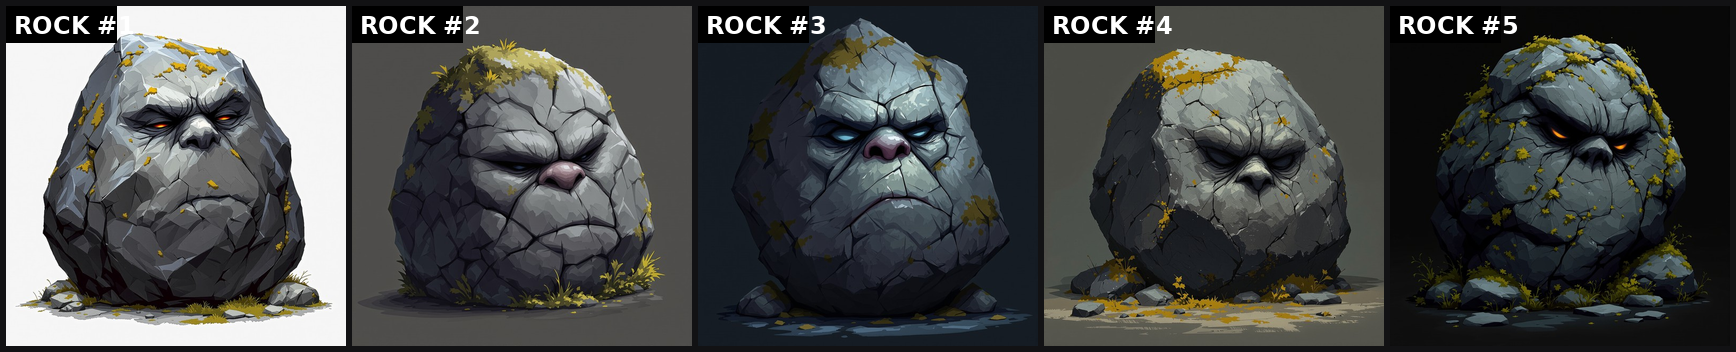
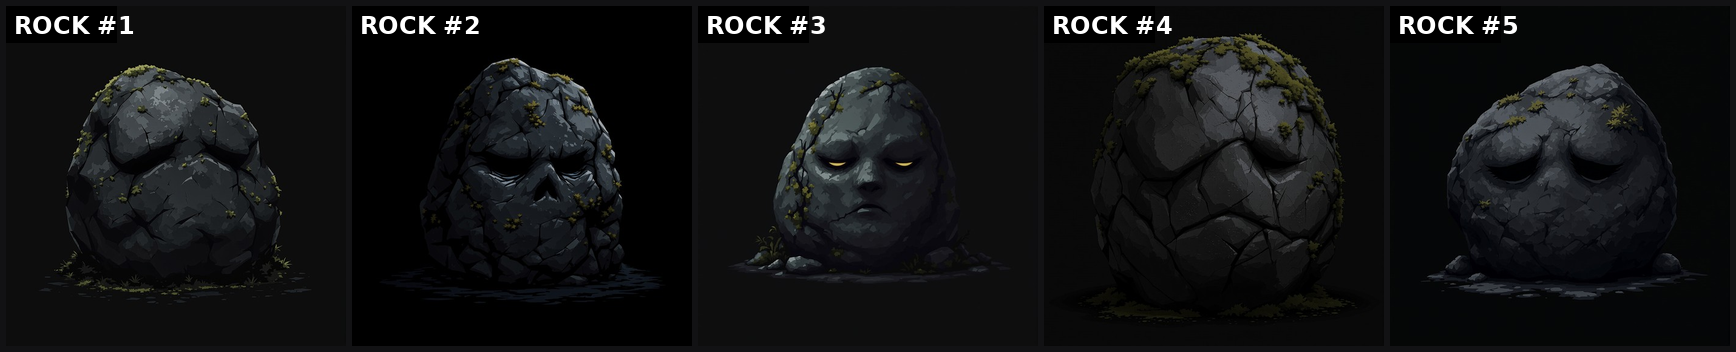
Troll rockface: darker, flatter, much subtler face (batch 3, use #2)
Owner feedback: too bright / too high-detail / too much face. Regenerated as
dark near-black charcoal boulders with soft low-detail shading matching the dim
in-game rock sprites, faces pushed to a faint shadow (no glowing eyes), nudged
darker + desaturated in post, and keyed onto transparent (no halo). Promoted
#2 to assets/rockface/troll.png. Rebuilt dist.

Claude-Session: https://claude.ai/code/session_01CgGUkw5aUKtUAGfWeZXo2s

diff --git a/dist/artifact.html b/dist/artifact.html
@@ -1484,8 +1484,8 @@
 <div id="ui"></div>
 <script>
 'use strict';
-window.__ASSET_VER = "1e7zh47";
-globalThis.__BUILD__ = "local 07-24 18:51";
+window.__ASSET_VER = "1t1wvhr";
+globalThis.__BUILD__ = "local 07-24 18:59";
 
 // ===================== src/config.js =====================
 const __m_config = (function () {

diff --git a/dist/index.html b/dist/index.html
@@ -1490,8 +1490,8 @@
 <div id="ui"></div>
 <script>
 'use strict';
-window.__ASSET_VER = "1e7zh47";
-globalThis.__BUILD__ = "local 07-24 18:51";
+window.__ASSET_VER = "1t1wvhr";
+globalThis.__BUILD__ = "local 07-24 18:59";
 
 // ===================== src/config.js =====================
 const __m_config = (function () {

diff --git a/scripts/gen_troll_rock.py b/scripts/gen_troll_rock.py
@@ -1,14 +1,13 @@
 #!/usr/bin/env python3
-# Five "troll rockface" sprite options for the Magic Mushroom (Psilocybe cubensis)
-# level-1 UNLOCK object. BATCH 2 (owner feedback): the first batch was photoreal with
-# an OBVIOUS sculpted face. Now match the IN-GAME rock sprites (painterly dark-charcoal
-# game-art boulders w/ moss, see assets/rockMossy.png / rockform*.png) and make the face
-# VERY SUBTLE — mostly an ordinary boulder that only faintly suggests a face.
-# FLUX 1.1 PRO ULTRA, raw:false (stylised, not photoreal). Output ->
-# assets/rock_options/troll-r<n>.jpg + troll-r<n>.png (soft cutout) + a contact sheet.
+# Troll rockface for the Magic Mushroom unlock — BATCH 3 (owner feedback: batch 2 was
+# too bright, too high-detail, and too much face). Target = the DARK, simple in-game rock
+# sprites (assets/rockMossy.png is dark charcoal, low-detail). So: near-black charcoal
+# boulder, soft flat low-detail painterly shading, and the face almost invisible — mostly
+# just a plain dark mossy rock. FLUX 1.1 PRO ULTRA, raw:false. Output ->
+# assets/rock_options/troll-r<n>.jpg/.png (proper bg-keyed cutout) + a contact sheet.
 import os, sys, json, time, subprocess, tempfile
 from pathlib import Path
-from PIL import Image, ImageDraw, ImageFont, ImageFilter
+from PIL import Image, ImageDraw, ImageFont, ImageFilter, ImageEnhance
 
 ROOT = Path(__file__).resolve().parents[1]
 OUTDIR = ROOT / "assets" / "rock_options"
@@ -18,30 +17,27 @@ TOKEN = os.environ.get("REPLICATE_API_TOKEN", "").strip()
 LOG = os.environ.get("ROCKLOG", "/tmp/troll_rock.log")
 MODEL = "black-forest-labs/flux-1.1-pro-ultra"
 
-# Match the in-game rock sprites: painterly game art, dark charcoal faceted stone + moss.
-STYLE = ("2D hand-painted game-art rock sprite, painterly semi-realistic fungal-fantasy "
-         "illustration (NOT a photograph, no photorealism), a chunky dark charcoal-grey "
-         "angular boulder with crisp faceted planes and chipped edges, patches of muted "
-         "olive-green and gold moss and lichen, cool near-black deep-earth palette with "
-         "soft ambient shadow, clean simple side-view sprite that matches a 2D "
-         "side-scroller game boulder, flat plain very dark near-black background, "
-         "centered, no text, no watermark, no border, no people, no photograph")
+# Dark, simple, low-detail game rock (match rockMossy) on a pure-black background.
+STYLE = ("simple 2D game-art rock sprite, soft flat low-detail painterly shading (NOT "
+         "photoreal, NOT high-detail, NOT crisp, no fine texture), a DARK near-black "
+         "charcoal-grey boulder like a dim underground stone, muted desaturated deep-earth "
+         "palette, sparse patches of dark olive moss, gentle soft shadow, matches a plain "
+         "dark 2D side-scroller game boulder, solid pure black background, centered, "
+         "no text, no watermark, no border, no people")
 
-# A mostly-ordinary boulder whose shadows only FAINTLY hint at a face (subtle pareidolia).
-SUBJECT = ("a single chunky weathered angular grey boulder, first and foremost an "
-           "ordinary mossy game rock; its natural facets and pooled shadow hollows only "
-           "VERY FAINTLY and accidentally suggest a sleeping troll's face — the barest "
-           "hint of two shadowed eye hollows and a blunt nose ridge that most players "
-           "would miss at a glance. It is NOT a carved or sculpted face, there are no "
-           "drawn eyes or mouth, only soft accidental shadow shapes; the boulder must "
-           "read as a normal rock, the face extremely subtle and easy to overlook")
+# Almost no face — a plain dark rock that only MIGHT hint at a sleeping face.
+SUBJECT = ("an ordinary plain dark charcoal boulder, essentially just a normal dim mossy "
+           "underground rock; at most the faintest accidental shadow in its facets could "
+           "be imagined as a sleeping face, but there are NO eyes, NO glowing eyes, NO "
+           "nose or mouth, nothing golem-like or monstrous, no character — a player should "
+           "simply see a dark rock. The face is almost completely invisible and unimportant")
 
 VARIANTS = [
-    ("even flat game lighting, the hint of a face only in the upper facets, lots of moss", 5100),
-    ("gentle top-left light, shallow shadow hollows barely reading as eyes, mossy cap", 5270),
-    ("cool blue-grey shading, a craggier angular boulder, the face almost imperceptible", 5440),
-    ("a rounder smoother boulder, soft rounded facets, only the faintest sleepy face", 5610),
-    ("more moss and lichen creeping over the stone, the face nearly hidden under it", 5780),
+    ("a plain rounded dark boulder, no discernible face at all, just dim stone and moss", 6100),
+    ("a dark angular boulder, only the very faintest shadow hollows, no real face", 6270),
+    ("a dim mossy boulder, at most a sleepy suggestion in the shadows, extremely subtle", 6440),
+    ("a dark craggy boulder, moss creeping over any hint of a face, nearly featureless", 6610),
+    ("a smooth dark river boulder, the calmest faintest sleeping impression, mostly plain", 6780),
 ]
 
 def log(m):
@@ -68,47 +64,55 @@ def poll(geturl):
         time.sleep(2)
     return {"status":"timeout"}
 
-def save_png(url, dest, size=640):
+def bg_cutout(im, dest):
+    """Flood-fill the (near-uniform) background from the borders to a clean transparent
+    silhouette — works for both light and dark backgrounds (keyed by the corner colour)."""
+    im = im.convert("RGB")
+    w, h = im.size
+    work = im.copy()
+    SENT = (255, 0, 255)
+    seeds = [(1,1),(w-2,1),(1,h-2),(w-2,h-2),(w//2,1),(w//2,h-2),(1,h//2),(w-2,h//2)]
+    for s in seeds:
+        ImageDraw.floodfill(work, s, SENT, thresh=34)
+    px = work.load()
+    alpha = Image.new("L", (w, h), 255); ap = alpha.load()
+    for y in range(h):
+        for x in range(w):
+            if px[x, y] == SENT: ap[x, y] = 0
+    alpha = alpha.filter(ImageFilter.GaussianBlur(1.5))
+    out = im.convert("RGBA"); out.putalpha(alpha)
+    bbox = out.getbbox()
+    if bbox:
+        pad = 8
+        bbox = (max(0,bbox[0]-pad), max(0,bbox[1]-pad), min(w,bbox[2]+pad), min(h,bbox[3]+pad))
+        out = out.crop(bbox)
+    out.save(dest, "PNG")
+
+def save_variants(url, n):
     tmp = tempfile.mktemp(suffix=".png")
     subprocess.run(["curl","-sS","--max-time","150","--cacert",CA,"-o",tmp,url], check=True)
     im = Image.open(tmp).convert("RGB")
     s = min(im.width, im.height)
-    im = im.crop(((im.width-s)//2, (im.height-s)//2, (im.width-s)//2+s, (im.height-s)//2+s))
-    im = im.resize((size, size), Image.LANCZOS)
-    im.save(dest, "PNG"); os.remove(tmp)
-    return im
-
-def soft_cutout(im, dest):
-    size = im.size[0]
-    mask = Image.new("L", (size, size), 0)
-    d = ImageDraw.Draw(mask)
-    d.ellipse([size*0.06, size*0.06, size*0.94, size*0.94], fill=255)
-    mask = mask.filter(ImageFilter.GaussianBlur(size*0.045))
-    out = im.convert("RGBA"); out.putalpha(mask)
-    out.save(dest, "PNG")
+    im = im.crop(((im.width-s)//2, (im.height-s)//2, (im.width-s)//2+s, (im.height-s)//2+s)).resize((560,560), Image.LANCZOS)
+    im = ImageEnhance.Brightness(im).enhance(0.82)     # nudge darker to sit with the dim in-game rocks
+    im = ImageEnhance.Color(im).enhance(0.85)          # slightly desaturate
+    im.save(OUTDIR / f"troll-r{n}.jpg", "JPEG", quality=90)
+    bg_cutout(im, str(OUTDIR / f"troll-r{n}.png"))
+    os.remove(tmp)
 
 def gen_one(n, variant, seed):
-    raw = OUTDIR / f"troll-r{n}.jpg"
-    png = OUTDIR / f"troll-r{n}.png"
-    full = OUTDIR / f"_full-troll-r{n}.png"
     prompt = f"{SUBJECT}, {variant}, {STYLE}"
     for attempt in range(4):
         d = create(prompt, seed + attempt*911)
         get = ((d.get("urls") or {}).get("get")) or ""
-        if not get:
-            log(f"troll-r{n}: create fail ({d.get('detail') or d.get('_raw')})"); time.sleep(5); continue
+        if not get: log(f"troll-r{n}: create fail ({d.get('detail') or d.get('_raw')})"); time.sleep(5); continue
         r = poll(get)
         out = r.get("output"); url = out[0] if isinstance(out,list) and out else (out if isinstance(out,str) else "")
         if r.get("status")=="succeeded" and url:
-            try:
-                im = save_png(url, str(full))
-                im.save(raw, "JPEG", quality=90)
-                soft_cutout(im, str(png))
-                log(f"OK troll-r{n} {png.stat().st_size//1024}KB"); return png
+            try: save_variants(url, n); log(f"OK troll-r{n}"); return
             except Exception as e: log(f"troll-r{n}: dl error {e}")
-        else:
-            log(f"troll-r{n}: {r.get('status')} ({r.get('error') or ''})"); time.sleep(4)
-    log(f"FAIL troll-r{n}"); return None
+        else: log(f"troll-r{n}: {r.get('status')} ({r.get('error') or ''})"); time.sleep(4)
+    log(f"FAIL troll-r{n}")
 
 def label(im, text):
     d = ImageDraw.Draw(im)
@@ -132,7 +136,6 @@ def sheet():
 
 def main():
     if not TOKEN: log("NO TOKEN"); sys.exit(1)
-    # overwrite the rejected batch
     for n in range(1,6):
         for ext in ('jpg','png'):
             p = OUTDIR / f"troll-r{n}.{ext}"
